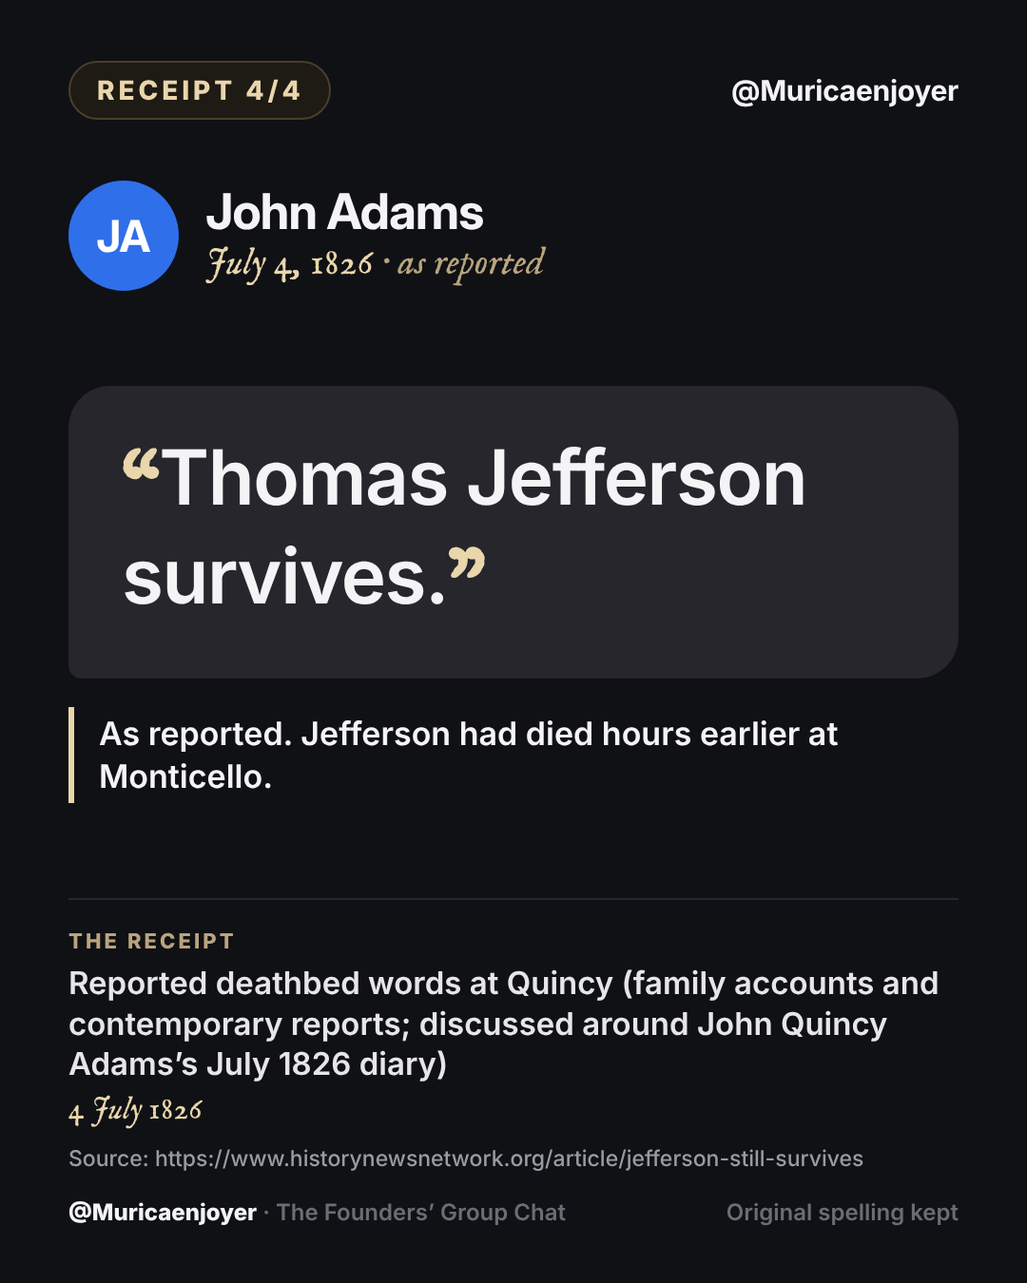
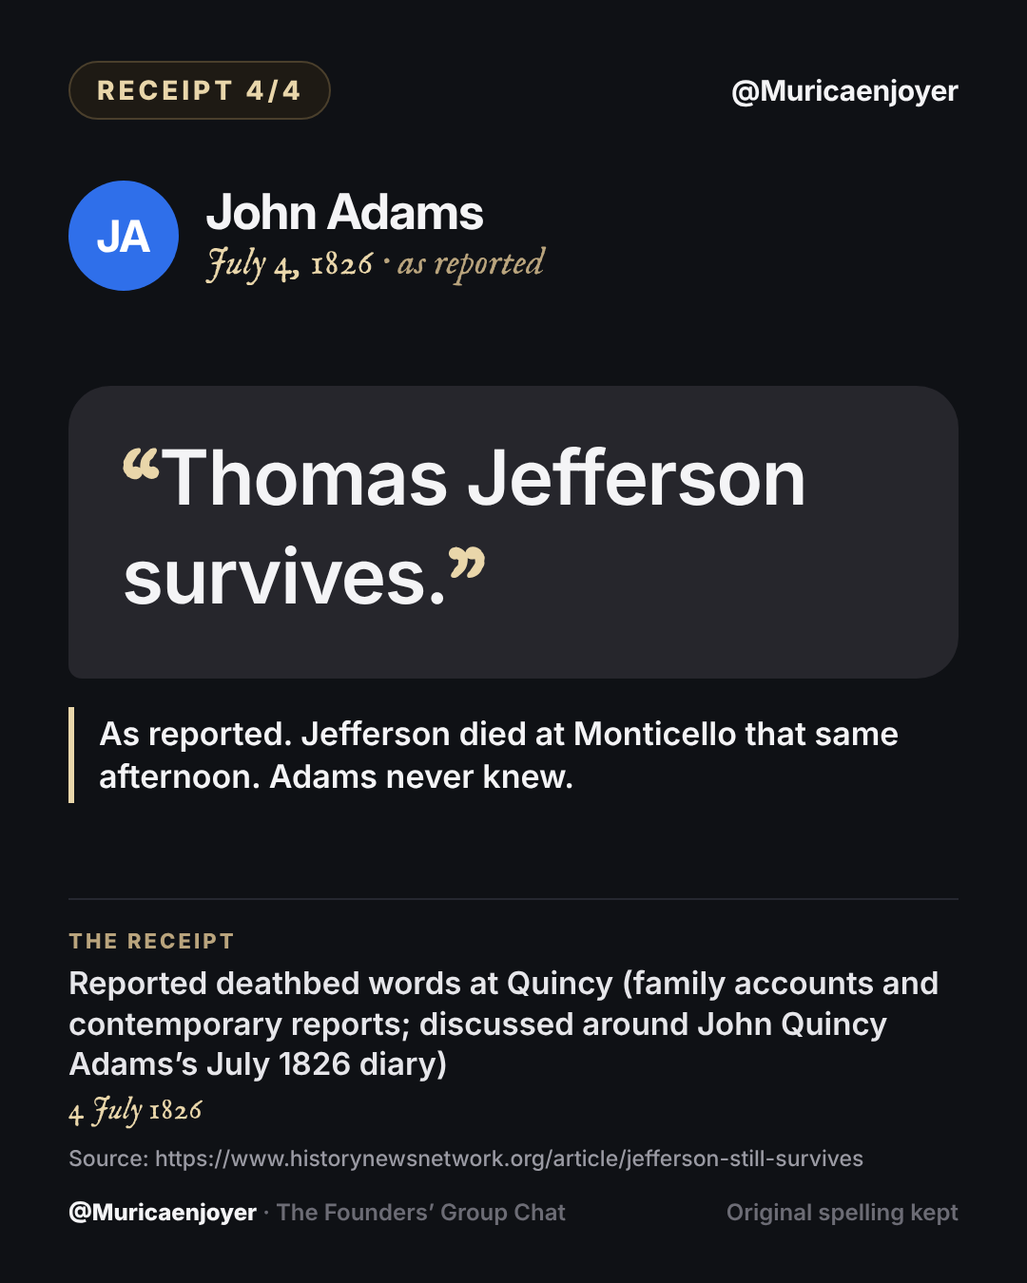
Fix Founders timing and translation details from the quote check
Receipt 4 no longer says Jefferson died hours earlier: Adams's reported
words came the same afternoon Jefferson died. Receipt 3 drops an
unsupported misdating claim. The web chat marks Franklin's letter as
written in French and corrects two timestamps. The reply thread gains a
fifth reply linking every source.

Claude-Session: https://claude.ai/code/session_01Nmb58pjgaB1LsT9vucg9uF

Changed region(s): [[0.0917, 0.56, 0.8861, 0.6222]]

diff --git a/muricaenjoyer/founders/founders-chat.html b/muricaenjoyer/founders/founders-chat.html
@@ -515,7 +515,7 @@ button.bubble:hover { transform: translateY(-1px); box-shadow: var(--shadow-hove
 <div class="msg" id="q19"><button class="bubble is-first" type="button" aria-expanded="false" aria-controls="r-q19"><span class="bubble__text">my movements to the chair of Government will be accompanied with feelings not unlike those of a culprit who is going to the place of his execution</span><span class="bubble__time">Apr 1, 1789</span></button><p class="caption">on becoming President</p><div class="receipt" id="r-q19" hidden><p class="receipt__head"><span>Receipt</span><span class="receipt__no">No. 19 of 35</span></p><dl><div><dt>Document</dt><dd><span class="doc">George Washington to Henry Knox, Mount Vernon (before taking office as President)</span></dd></div><div><dt>Date</dt><dd>1 April 1789</dd></div><div><dt>Source</dt><dd><a href="https://founders.archives.gov/documents/Washington/05-02-02-0003" target="_blank" rel="noopener noreferrer">founders.archives.gov/documents/Washington/05-02-02-0003<svg class="ext" viewBox="0 0 16 16" aria-hidden="true" focusable="false"><path d="M6 3.5H3.5v9h9V10M9 3.5h3.5V7M12.5 3.5 7 9" fill="none" stroke="currentColor" stroke-width="1.5" stroke-linecap="round" stroke-linejoin="round"/></svg><span class="sr">(opens in a new tab)</span></a></dd></div></dl><div class="receipt__actions"><button class="copy" type="button" data-copy="“my movements to the chair of Government will be accompanied with feelings not unlike those of a culprit who is going to the place of his execution” — George Washington, letter to Henry Knox, Mount Vernon (before taking office as President), 1 April 1789"><svg viewBox="0 0 16 16" aria-hidden="true" focusable="false"><rect x="5" y="5" width="8" height="8" rx="1.5" fill="none" stroke="currentColor" stroke-width="1.5"/><path d="M3 10.5V4a1 1 0 0 1 1-1h6.5" fill="none" stroke="currentColor" stroke-width="1.5" stroke-linecap="round"/></svg><span class="copy__label">Copy quote</span></button><span class="copy__status" role="status"></span></div><textarea class="copy__fallback" aria-label="Quote with citation" readonly hidden></textarea></div></div>
 </div></div>
 <div class="run run--left" style="--m: var(--m-bf)"><div class="run__av"><span class="av av--bf" aria-hidden="true">BF</span></div><div class="run__body"><p class="run__name">Benjamin Franklin</p>
-<div class="msg" id="q20"><button class="bubble is-first" type="button" aria-expanded="false" aria-controls="r-q20"><span class="bubble__text">Our new Constitution is now established, and has an appearance that promises permanency; but in this world nothing can be said to be certain, except death and taxes.</span><span class="bubble__time">Nov 13, 1789</span></button><div class="receipt" id="r-q20" hidden><p class="receipt__head"><span>Receipt</span><span class="receipt__no">No. 20 of 35</span></p><dl><div><dt>Document</dt><dd><span class="doc">Benjamin Franklin to Jean-Baptiste Le Roy</span></dd></div><div><dt>Date</dt><dd>13 November 1789</dd></div><div><dt>Source</dt><dd><a href="https://www.politifact.com/factchecks/2011/jan/21/jay-hottinger/rep-jay-hottingers-assessment-founding-father-unfo" target="_blank" rel="noopener noreferrer">politifact.com/factchecks/2011/jan/21/jay-hottinger/rep-jay-hottingers-assessment-founding-father-unfo<svg class="ext" viewBox="0 0 16 16" aria-hidden="true" focusable="false"><path d="M6 3.5H3.5v9h9V10M9 3.5h3.5V7M12.5 3.5 7 9" fill="none" stroke="currentColor" stroke-width="1.5" stroke-linecap="round" stroke-linejoin="round"/></svg><span class="sr">(opens in a new tab)</span></a></dd></div></dl><div class="receipt__actions"><button class="copy" type="button" data-copy="“Our new Constitution is now established, and has an appearance that promises permanency; but in this world nothing can be said to be certain, except death and taxes.” — Benjamin Franklin, letter to Jean-Baptiste Le Roy, 13 November 1789"><svg viewBox="0 0 16 16" aria-hidden="true" focusable="false"><rect x="5" y="5" width="8" height="8" rx="1.5" fill="none" stroke="currentColor" stroke-width="1.5"/><path d="M3 10.5V4a1 1 0 0 1 1-1h6.5" fill="none" stroke="currentColor" stroke-width="1.5" stroke-linecap="round"/></svg><span class="copy__label">Copy quote</span></button><span class="copy__status" role="status"></span></div><textarea class="copy__fallback" aria-label="Quote with citation" readonly hidden></textarea></div></div>
+<div class="msg" id="q20"><button class="bubble is-first" type="button" aria-expanded="false" aria-controls="r-q20"><span class="bubble__text">Our new Constitution is now established, and has an appearance that promises permanency; but in this world nothing can be said to be certain, except death and taxes.</span><span class="bubble__time">Nov 13, 1789</span></button><div class="receipt" id="r-q20" hidden><p class="receipt__head"><span>Receipt</span><span class="receipt__no">No. 20 of 35</span></p><dl><div><dt>Document</dt><dd><span class="doc">Benjamin Franklin to Jean-Baptiste Le Roy (written in French; English from the 1817 edition)</span></dd></div><div><dt>Date</dt><dd>13 November 1789</dd></div><div><dt>Source</dt><dd><a href="https://www.politifact.com/factchecks/2011/jan/21/jay-hottinger/rep-jay-hottingers-assessment-founding-father-unfo" target="_blank" rel="noopener noreferrer">politifact.com/factchecks/2011/jan/21/jay-hottinger/rep-jay-hottingers-assessment-founding-father-unfo<svg class="ext" viewBox="0 0 16 16" aria-hidden="true" focusable="false"><path d="M6 3.5H3.5v9h9V10M9 3.5h3.5V7M12.5 3.5 7 9" fill="none" stroke="currentColor" stroke-width="1.5" stroke-linecap="round" stroke-linejoin="round"/></svg><span class="sr">(opens in a new tab)</span></a></dd></div></dl><div class="receipt__actions"><button class="copy" type="button" data-copy="“Our new Constitution is now established, and has an appearance that promises permanency; but in this world nothing can be said to be certain, except death and taxes.” — Benjamin Franklin, letter to Jean-Baptiste Le Roy, 13 November 1789 (written in French)"><svg viewBox="0 0 16 16" aria-hidden="true" focusable="false"><rect x="5" y="5" width="8" height="8" rx="1.5" fill="none" stroke="currentColor" stroke-width="1.5"/><path d="M3 10.5V4a1 1 0 0 1 1-1h6.5" fill="none" stroke="currentColor" stroke-width="1.5" stroke-linecap="round"/></svg><span class="copy__label">Copy quote</span></button><span class="copy__status" role="status"></span></div><textarea class="copy__fallback" aria-label="Quote with citation" readonly hidden></textarea></div></div>
 </div></div>
 <div class="sys sys--leave" id="s2"><button class="sys__btn" type="button" aria-expanded="false" aria-controls="r-s2"><span class="sys__text"><strong>Benjamin Franklin</strong> left the chat</span> <span class="sys__date">Apr 17, 1790</span></button><div class="receipt receipt--sys" id="r-s2" hidden><p class="receipt__head"><span>Receipt</span><span>Interface line, not a quote</span></p><dl><div><dt>Date</dt><dd>Apr 17, 1790</dd></div><div><dt>Fact</dt><dd>Franklin died in Philadelphia, 17 April 1790</dd></div></dl></div></div>
 <div class="run run--left" style="--m: var(--m-ah)"><div class="run__av"><span class="av av--ah" aria-hidden="true">AH</span></div><div class="run__body"><p class="run__name">Alexander Hamilton</p>
@@ -555,10 +555,10 @@ button.bubble:hover { transform: translateY(-1px); box-shadow: var(--shadow-hove
 </div></div>
 <h2 class="divider"><span>July 3, 1826</span></h2>
 <div class="run run--left" style="--m: var(--m-tj)"><div class="run__av"><span class="av av--tj" aria-hidden="true">TJ</span></div><div class="run__body"><p class="run__name">Thomas Jefferson</p>
-<div class="msg" id="q34"><button class="bubble is-first" type="button" aria-expanded="false" aria-controls="r-q34"><span class="bubble__text">Is it the Fourth?</span><span class="bubble__time">Jul 3, 1826 · night</span></button><p class="caption">as recorded by his doctor</p><div class="receipt" id="r-q34" hidden><p class="receipt__head"><span>Receipt</span><span class="receipt__no">No. 34 of 35</span></p><dl><div><dt>Document</dt><dd><span class="doc">Deathbed account recorded by Dr. Robley Dunglison (variants by Nicholas Trist and Thomas Jefferson Randolph)</span></dd></div><div><dt>Date</dt><dd>night of 3 July 1826</dd></div><div><dt>Source</dt><dd><a href="https://www.monticello.org/encyclopedia/jeffersons-last-words" target="_blank" rel="noopener noreferrer">monticello.org/encyclopedia/jeffersons-last-words<svg class="ext" viewBox="0 0 16 16" aria-hidden="true" focusable="false"><path d="M6 3.5H3.5v9h9V10M9 3.5h3.5V7M12.5 3.5 7 9" fill="none" stroke="currentColor" stroke-width="1.5" stroke-linecap="round" stroke-linejoin="round"/></svg><span class="sr">(opens in a new tab)</span></a></dd></div><div><dt>Note</dt><dd>REPORTED: recorded by his physician. Monticello says his true last words cannot be determined.</dd></div></dl><div class="receipt__actions"><button class="copy" type="button" data-copy="“Is it the Fourth?” — Thomas Jefferson, deathbed account recorded by Dr. Robley Dunglison (variants by Nicholas Trist and Thomas Jefferson Randolph), night of 3 July 1826"><svg viewBox="0 0 16 16" aria-hidden="true" focusable="false"><rect x="5" y="5" width="8" height="8" rx="1.5" fill="none" stroke="currentColor" stroke-width="1.5"/><path d="M3 10.5V4a1 1 0 0 1 1-1h6.5" fill="none" stroke="currentColor" stroke-width="1.5" stroke-linecap="round"/></svg><span class="copy__label">Copy quote</span></button><span class="copy__status" role="status"></span></div><textarea class="copy__fallback" aria-label="Quote with citation" readonly hidden></textarea></div></div>
+<div class="msg" id="q34"><button class="bubble is-first" type="button" aria-expanded="false" aria-controls="r-q34"><span class="bubble__text">Is it the Fourth?</span><span class="bubble__time">Jul 3, 1826 · night</span></button><p class="caption">as recorded by his doctor</p><div class="receipt" id="r-q34" hidden><p class="receipt__head"><span>Receipt</span><span class="receipt__no">No. 34 of 35</span></p><dl><div><dt>Document</dt><dd><span class="doc">Deathbed account recorded by Dr. Robley Dunglison (variants by Nicholas Trist and Thomas Jefferson Randolph)</span></dd></div><div><dt>Date</dt><dd>evening of 3 July 1826</dd></div><div><dt>Source</dt><dd><a href="https://www.monticello.org/encyclopedia/jeffersons-last-words" target="_blank" rel="noopener noreferrer">monticello.org/encyclopedia/jeffersons-last-words<svg class="ext" viewBox="0 0 16 16" aria-hidden="true" focusable="false"><path d="M6 3.5H3.5v9h9V10M9 3.5h3.5V7M12.5 3.5 7 9" fill="none" stroke="currentColor" stroke-width="1.5" stroke-linecap="round" stroke-linejoin="round"/></svg><span class="sr">(opens in a new tab)</span></a></dd></div><div><dt>Note</dt><dd>REPORTED: recorded by his physician. Monticello says his true last words cannot be determined.</dd></div></dl><div class="receipt__actions"><button class="copy" type="button" data-copy="“Is it the Fourth?” — Thomas Jefferson, deathbed account recorded by Dr. Robley Dunglison (variants by Nicholas Trist and Thomas Jefferson Randolph), evening of 3 July 1826"><svg viewBox="0 0 16 16" aria-hidden="true" focusable="false"><rect x="5" y="5" width="8" height="8" rx="1.5" fill="none" stroke="currentColor" stroke-width="1.5"/><path d="M3 10.5V4a1 1 0 0 1 1-1h6.5" fill="none" stroke="currentColor" stroke-width="1.5" stroke-linecap="round"/></svg><span class="copy__label">Copy quote</span></button><span class="copy__status" role="status"></span></div><textarea class="copy__fallback" aria-label="Quote with citation" readonly hidden></textarea></div></div>
 </div></div>
 <h2 class="divider divider--finale"><span>July 4, 1826 <span class="divider__sub">50 years to the day</span></span></h2>
-<div class="sys sys--leave" id="s5"><button class="sys__btn" type="button" aria-expanded="false" aria-controls="r-s5"><span class="sys__text"><strong>Thomas Jefferson</strong> left the chat</span> <span class="sys__date">Jul 4, 1826 · around noon</span></button><div class="receipt receipt--sys" id="r-s5" hidden><p class="receipt__head"><span>Receipt</span><span>Interface line, not a quote</span></p><dl><div><dt>Date</dt><dd>Jul 4, 1826 · around noon</dd></div><div><dt>Fact</dt><dd>Jefferson died at Monticello around noon, 4 July 1826</dd></div><div><dt>Source</dt><dd><a href="https://www.monticello.org/encyclopedia/jeffersons-last-words" target="_blank" rel="noopener noreferrer">monticello.org/encyclopedia/jeffersons-last-words<svg class="ext" viewBox="0 0 16 16" aria-hidden="true" focusable="false"><path d="M6 3.5H3.5v9h9V10M9 3.5h3.5V7M12.5 3.5 7 9" fill="none" stroke="currentColor" stroke-width="1.5" stroke-linecap="round" stroke-linejoin="round"/></svg><span class="sr">(opens in a new tab)</span></a></dd></div></dl></div></div>
+<div class="sys sys--leave" id="s5"><button class="sys__btn" type="button" aria-expanded="false" aria-controls="r-s5"><span class="sys__text"><strong>Thomas Jefferson</strong> left the chat</span> <span class="sys__date">Jul 4, 1826 · early afternoon</span></button><div class="receipt receipt--sys" id="r-s5" hidden><p class="receipt__head"><span>Receipt</span><span>Interface line, not a quote</span></p><dl><div><dt>Date</dt><dd>Jul 4, 1826 · early afternoon</dd></div><div><dt>Fact</dt><dd>Jefferson died at Monticello early afternoon, 4 July 1826</dd></div><div><dt>Source</dt><dd><a href="https://www.monticello.org/encyclopedia/jeffersons-last-words" target="_blank" rel="noopener noreferrer">monticello.org/encyclopedia/jeffersons-last-words<svg class="ext" viewBox="0 0 16 16" aria-hidden="true" focusable="false"><path d="M6 3.5H3.5v9h9V10M9 3.5h3.5V7M12.5 3.5 7 9" fill="none" stroke="currentColor" stroke-width="1.5" stroke-linecap="round" stroke-linejoin="round"/></svg><span class="sr">(opens in a new tab)</span></a></dd></div></dl></div></div>
 <div class="run run--right" style="--m: var(--m-ja)"><div class="run__body"><p class="run__name">John Adams</p>
 <div class="msg msg--typing"><span class="bubble bubble--typing is-first"><span class="dot"></span><span class="dot"></span><span class="dot"></span><span class="sr">John Adams is typing</span></span></div>
 <div class="msg" id="q35"><button class="bubble" type="button" aria-expanded="false" aria-controls="r-q35"><span class="bubble__text">Thomas Jefferson survives.</span><span class="bubble__time">Jul 4, 1826</span></button><p class="caption">as reported</p><div class="receipt" id="r-q35" hidden><p class="receipt__head"><span>Receipt</span><span class="receipt__no">No. 35 of 35</span></p><dl><div><dt>Document</dt><dd><span class="doc">Reported deathbed words at Quincy (family accounts and contemporary reports; discussed around John Quincy Adams’s July 1826 diary)</span></dd></div><div><dt>Date</dt><dd>4 July 1826</dd></div><div><dt>Source</dt><dd><a href="https://www.historynewsnetwork.org/article/jefferson-still-survives" target="_blank" rel="noopener noreferrer">historynewsnetwork.org/article/jefferson-still-survives<svg class="ext" viewBox="0 0 16 16" aria-hidden="true" focusable="false"><path d="M6 3.5H3.5v9h9V10M9 3.5h3.5V7M12.5 3.5 7 9" fill="none" stroke="currentColor" stroke-width="1.5" stroke-linecap="round" stroke-linejoin="round"/></svg><span class="sr">(opens in a new tab)</span></a></dd></div><div><dt>Note</dt><dd>REPORTED: rests on family reports of indistinct speech. ‘Jefferson still lives’ / ‘still survives’ are later polished variants. Adams did not know Jefferson had died hours earlier; the news traveled by post days later.</dd></div></dl><div class="receipt__actions"><button class="copy" type="button" data-copy="“Thomas Jefferson survives.” — John Adams, reported deathbed words at Quincy (family accounts and contemporary reports; discussed around John Quincy Adams’s July 1826 diary), 4 July 1826"><svg viewBox="0 0 16 16" aria-hidden="true" focusable="false"><rect x="5" y="5" width="8" height="8" rx="1.5" fill="none" stroke="currentColor" stroke-width="1.5"/><path d="M3 10.5V4a1 1 0 0 1 1-1h6.5" fill="none" stroke="currentColor" stroke-width="1.5" stroke-linecap="round"/></svg><span class="copy__label">Copy quote</span></button><span class="copy__status" role="status"></span></div><textarea class="copy__fallback" aria-label="Quote with citation" readonly hidden></textarea></div></div>

diff --git a/muricaenjoyer/founders/short/video.html b/muricaenjoyer/founders/short/video.html
@@ -92,18 +92,18 @@ const ITEMS = [
   { k: "card", title: "Every message is a real quote.", body: "Original spelling kept. The source is under each bubble." },
   { k: "div", text: "March 31, 1776" },
   { k: "msg", who: "AA", text: "I desire you would Remember the Ladies\u2026", src: "Letter to John Adams \u00b7 31 Mar 1776", url: "https://founders.archives.gov/documents/Adams/04-01-02-0241" },
-  { k: "msg", who: "AA", text: "\u2026we are determined to foment a Rebelion", src: "Letter to John Adams \u00b7 31 Mar 1776", url: "https://founders.archives.gov/documents/Adams/04-01-02-0241", receipt: "Read by John Adams" },
+  { k: "msg", who: "AA", text: "\u2026not paid to the Laidies we are determined to foment a Rebelion", src: "Letter to John Adams \u00b7 31 Mar 1776", url: "https://founders.archives.gov/documents/Adams/04-01-02-0241", receipt: "Read by John Adams" },
   { k: "msg", who: "JA", text: "As to your extraordinary Code of Laws, I cannot but laugh.", src: "Letter to Abigail Adams \u00b7 14 Apr 1776", url: "https://founders.archives.gov/documents/Adams/04-01-02-0248" },
   { k: "div", text: "July 4, 1776" },
   { k: "sys", text: "Thomas Jefferson named the conversation \u201cThe United States of America\u201d", rename: "The United States of America" },
   { k: "msg", who: "TJ", text: "He is vain, irritable \u2026 This is all the ill which can possibly be said of him.", src: "Letter to James Madison, about John Adams \u00b7 30 Jan 1787", url: "https://founders.archives.gov/documents/Madison/01-09-02-0126" },
-  { k: "msg", who: "BF", text: "\u2026in this world nothing can be said to be certain, except death and taxes.", src: "Letter to Jean-Baptiste Le Roy \u00b7 13 Nov 1789", url: "https://www.politifact.com/factchecks/2011/jan/21/jay-hottinger/rep-jay-hottingers-assessment-founding-father-unfo" },
+  { k: "msg", who: "BF", text: "\u2026in this world nothing can be said to be certain, except death and taxes.", src: "Letter to Jean-Baptiste Le Roy, in French \u00b7 13 Nov 1789", url: "https://www.politifact.com/factchecks/2011/jan/21/jay-hottinger/rep-jay-hottingers-assessment-founding-father-unfo" },
   { k: "msg", who: "JA", text: "I always loved Jefferson, and still love him.", src: "Said aloud at Quincy, as reported \u00b7 1811", url: "https://founders.archives.gov/documents/Adams/99-02-02-5725" },
   { k: "msg", who: "TJ", text: "\u201cI always loved Jefferson, and still love him.\u201d\u2014this is enough for me.", src: "Letter to Benjamin Rush \u00b7 5 Dec 1811", url: "https://founders.archives.gov/documents/Jefferson/03-04-02-0248" },
   { k: "msg", who: "JA", text: "You and I ought not to die, before We have explained ourselves to each other.", src: "Letter to Thomas Jefferson \u00b7 15 Jul 1813", url: "https://founders.archives.gov/documents/Adams/99-03-02-2334" },
-  { k: "msg", who: "TJ", text: "Is it the Fourth?", src: "On his deathbed, as recorded by his doctor \u00b7 night of 3 Jul 1826", url: "https://www.monticello.org/encyclopedia/jeffersons-last-words", slow: true },
+  { k: "msg", who: "TJ", text: "Is it the Fourth?", src: "On his deathbed, as recorded by his doctor \u00b7 evening of 3 Jul 1826", url: "https://www.monticello.org/encyclopedia/jeffersons-last-words", slow: true },
   { k: "div", text: "July 4, 1826", sub: "50 years to the day", big: true },
-  { k: "sys", text: "Thomas Jefferson left the chat", sub: "around noon", leave: "TJ" },
+  { k: "sys", text: "Thomas Jefferson left the chat", sub: "early afternoon", leave: "TJ" },
   { k: "msg", who: "JA", text: "Thomas Jefferson survives.", src: "Last words at Quincy, as reported \u00b7 4 Jul 1826", url: "https://www.historynewsnetwork.org/article/jefferson-still-survives", final: true },
   { k: "sys", text: "John Adams left the chat", sub: "that evening", leave: "JA", quiet: true },
 ];

diff --git a/muricaenjoyer/founders/receipts/template.html b/muricaenjoyer/founders/receipts/template.html
@@ -51,7 +51,7 @@ const R = [
    urlLab:"Founders Online", url:"https://founders.archives.gov/documents/Adams/99-03-02-2334"},
   {who:"JA", date:"July 4, 1826", fs:80, rep:"as reported",
    q:"Thomas Jefferson survives.",
-   note:"As reported. Jefferson had died hours earlier at Monticello.",
+   note:"As reported. Jefferson died at Monticello that same afternoon. Adams never knew.",
    doc:"Reported deathbed words at Quincy (family accounts and contemporary reports; discussed around John Quincy Adams’s July 1826 diary)", ddate:"4 July 1826",
    urlLab:"Source", url:"https://www.historynewsnetwork.org/article/jefferson-still-survives"},
 ];

diff --git a/muricaenjoyer/launch/build.py b/muricaenjoyer/launch/build.py
@@ -93,7 +93,7 @@ DAYS = [
          assets=[asset("testosterone/img/header-personality-1500x600.png")],
          note=f"Paste the article from the publish desk ({ARTICLE}) with its Copy article button, upload the six charts at their marked slots, and use this header as the cover. Re-read Joey Swoll's latest post first."),
     dict(date="Thu Oct 29", title="The 63 countdown video",
-         post="47 seconds. All 63 national parks, worst to best.\n\nSomebody is going to be mad about #34.",
+         post="47 seconds. 63 national parks, worst to best.\n\nSomebody is going to be mad about #34. (Chiricahua, you're #64 and you're next.)",
          assets=[asset("the-63/video/the-63-countdown-4x5.mp4", "video")],
          note="Quote-post Monday's tier list with this video."),
     dict(date="Fri Oct 30", title="Freedom Units teaser 2",
@@ -113,7 +113,7 @@ DAYS = [
          post=TEASERS["q3"][0], assets=[asset("freedom-units/teasers/q3-question.png")],
          reply=TEASERS["q3"][1], reply_assets=[asset("freedom-units/teasers/q3-answer.png")], reply_note="Evening."),
     dict(date="Thu Nov 5", title="The 63: the S tier, one at a time",
-         post="Monday I ranked all 63 national parks. A lot of you had opinions.\n\nHere's the S tier, counted down. Six parks worth rearranging your life for.",
+         post="Monday I ranked 63 national parks. A lot of you had opinions.\n\nHere's the S tier, counted down. Six parks worth rearranging your life for.",
          assets=[], thread=s_thread,
          thread_assets=[s_cards[0:2], s_cards[2:3], s_cards[3:4], s_cards[4:5], s_cards[5:6]] if len(s_cards) == 6 else []),
     dict(date="Fri Nov 6", title="Freedom Units goes public",

diff --git a/muricaenjoyer/founders/short/build.py b/muricaenjoyer/founders/short/build.py
@@ -44,6 +44,15 @@ def sub(old, new):
     assert src.count(old) == 1, old
     src = src.replace(old, new)
 
+# fact-check fixes for the short (the long cut's source is left as is)
+sub('text: "…we are determined to foment a Rebelion"',
+    'text: "…not paid to the Laidies we are determined to foment a Rebelion"')  # keep her "If ... not paid" condition (exact excerpt)
+sub('src: "Letter to Jean-Baptiste Le Roy · 13 Nov 1789"',
+    'src: "Letter to Jean-Baptiste Le Roy, in French · 13 Nov 1789"')  # the letter was in French; the line is a translation
+sub("as recorded by his doctor · night of 3 Jul 1826", "as recorded by his doctor · evening of 3 Jul 1826")
+sub('text: "Thomas Jefferson left the chat", sub: "around noon"',
+    'text: "Thomas Jefferson left the chat", sub: "early afternoon"')
+
 # pacing: ~0.75s + 0.05s per character (ending keeps the original slow read)
 sub("const readTime = s => 0.9 + 0.055 * len(s);",
     "const readTime = s => 0.75 + 0.05 * len(s);\nconst slowRead = s => 0.9 + 0.055 * len(s);")

diff --git a/muricaenjoyer/founders/receipts/thread.md b/muricaenjoyer/founders/receipts/thread.md
@@ -2,14 +2,17 @@
 
 Post each text as a reply under the short video, with the matching card attached.
 
-## 1/4 (attach receipt-1.png)
-Receipt 1/4: Abigail Adams to John Adams, Braintree, 31 March 1776. "Remember the Ladies," with her spelling ("favourable") kept. Full letter on Founders Online.
+## 1/5 (attach receipt-1.png)
+Receipt 1/4: Abigail Adams to John Adams, Braintree, 31 March 1776. "Remember the Ladies." Full letter, original spelling and all, on Founders Online.
 
-## 2/4 (attach receipt-2.png)
+## 2/5 (attach receipt-2.png)
 Receipt 2/4: Jefferson to Madison, 30 Jan 1787, on John Adams. "Vain, irritable" and then "all the ill which can possibly be said of him."
 
-## 3/4 (attach receipt-3.png)
-Receipt 3/4: Adams to Jefferson, 15 July 1813. Often misdated to 1812 or credited to Jefferson. It's Adams, and the capital W is his.
+## 3/5 (attach receipt-3.png)
+Receipt 3/4: John Adams to Thomas Jefferson, 15 July 1813, a year and a half into the letters they restarted in 1812. The capital W is in the original.
 
-## 4/4 (attach receipt-4.png)
-Receipt 4/4: Adams's last words on 4 July 1826, as reported by family. Jefferson had died hours earlier at Monticello. Adams never knew.
+## 4/5 (attach receipt-4.png)
+Receipt 4/4: Adams's reported words on 4 July 1826, first made public in Edward Everett's eulogy. Jefferson died at Monticello that same afternoon. Adams never knew.
+
+## 5/5 (no card)
+Every line in the video, with its letter, date and link: https://claude.ai/artifact/QNebUAYTf8zPBpwhrmjBSD
